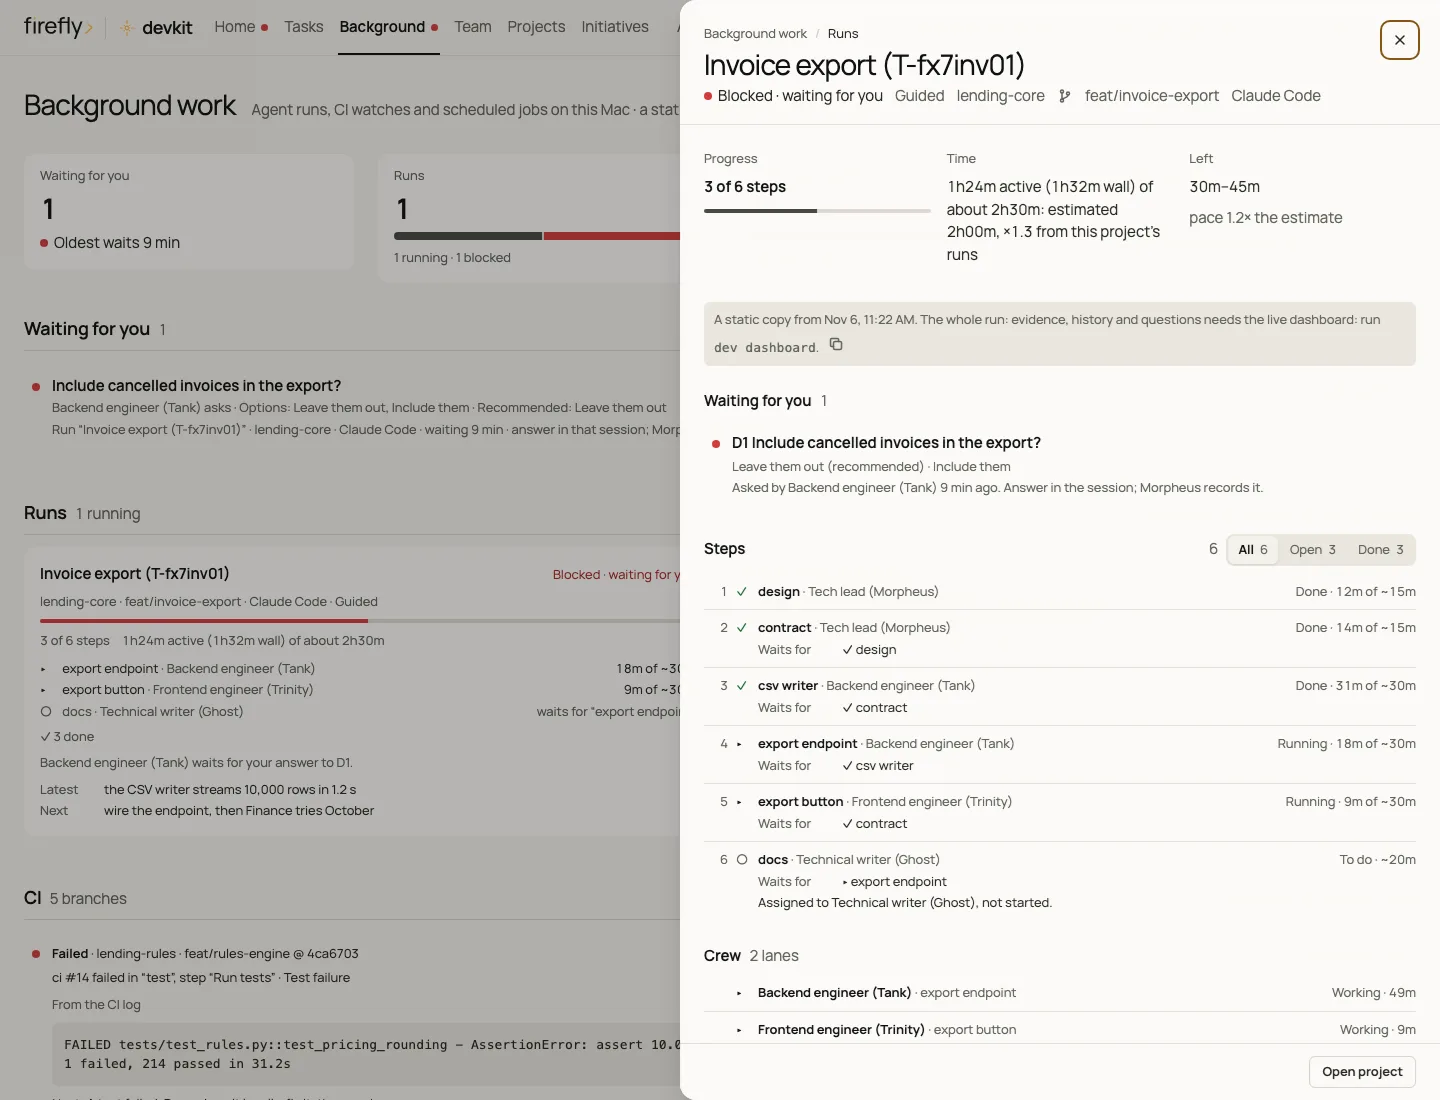
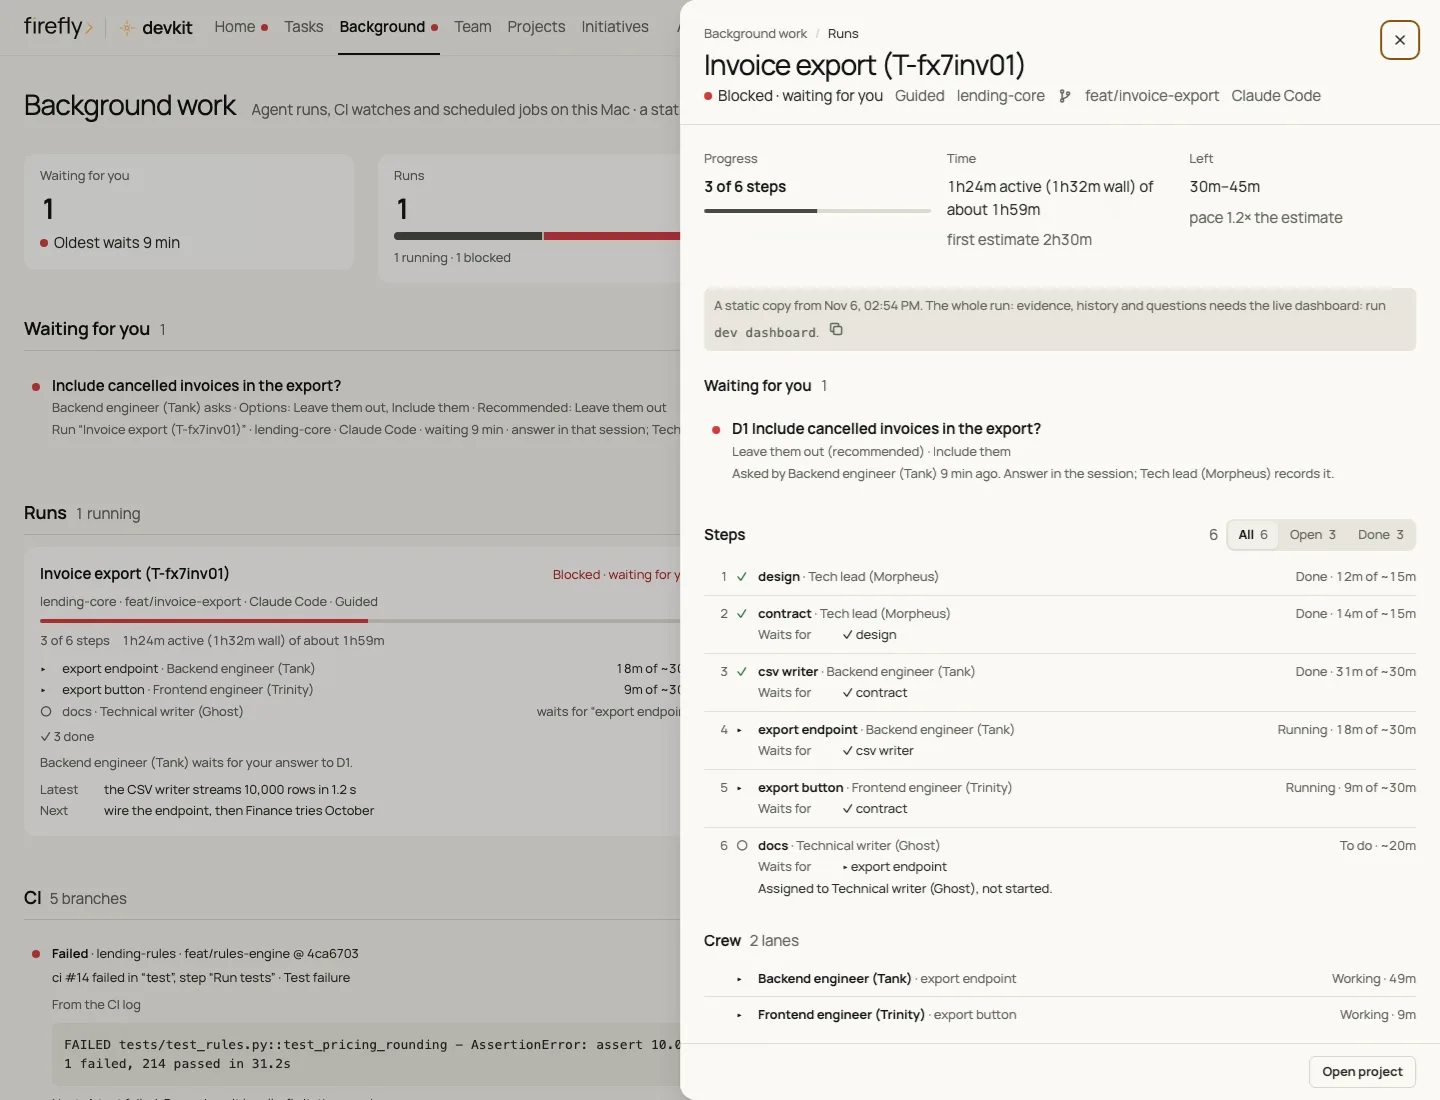
docs(dashboard): regenerate the run, Background and team screenshots
2e08d5b changed what the run shows: 'of about' is now the plan's current total (time so far plus time left), with the first estimate under it, and decisions say the Tech lead (Morpheus) records them. The committed RACI now has 34 kinds of work, so the crew table and the Who does what count changed too. Nine images come from the same fictional demo workspace, in both themes and at the same sizes as before; home, initiative, project and the task drawer only differed in clock times and stay. The run drawer's alt text and the doc's lines on run time and decisions now match the page.

Changed region(s): [[0.4688, 0.1855, 1.0, 0.9582], [0.9062, 0.8655, 1.0, 0.9582], [0.875, 0.7109, 1.0, 0.7727]]

diff --git a/docs/dashboard.md b/docs/dashboard.md
@@ -67,7 +67,7 @@ figures come first, each a link to its section (**Waiting for you**, **Runs**, *
 
 | Section | What it shows |
 | --- | --- |
-| **Waiting for you** | Only when a decision waits: each question with who asks, the options, the recommendation, and the run it blocks, oldest first. **Open the run** opens the run's drawer at that decision. Answer in the agent's session; Morpheus records it |
+| **Waiting for you** | Only when a decision waits: each question with who asks, the options, the recommendation, and the run it blocks, oldest first. **Open the run** opens the run's drawer at that decision. Answer in the agent's session; the Tech lead (Morpheus) records it |
 | **Runs** | Every `dev progress` run: waiting for you, blocked, stopped reporting, running, then done in the last hour. Each shows its goal, project, branch, agent, and mode, a progress bar, the steps running and next with their owners by role, the time used against the estimate, and the latest update and next step |
 | **CI** | The latest result per branch from `dev ci watch`, failures first. A failed result shows the job and step that failed, its class (test, lint, build, …), the first error from the log, the next action, a link to the log, and `dev run view <id> --failed` to copy |
 | **Scheduled jobs** | devkit's jobs, problems first: failed, timed out, not scheduled, overdue, skipped, OK. Each with its last run, its next run, and its failures in 30 days; the name opens the job's drawer with its recent runs and log |
@@ -77,13 +77,14 @@ figures come first, each a link to its section (**Waiting for you**, **Runs**, *
   <img src="images/dashboard/background-1440-light.webp" alt="The Background work view: four figures (1 decision waiting for you, the oldest for 9 minutes; 1 run running and 1 blocked; 1 CI failure in 14 days; 5 scheduled jobs, with doctor failed on its last run), the decision Include cancelled invoices in the export? with who asks, the options, and an Open the run button, two run cards with their steps and owners by role, and a failed CI result with the first error from its log." width="100%">
 </picture>
 
-A run's drawer (`modal=run:<id>`) holds the whole run: progress, active and wall time against the estimate, the time
-left, the decisions waiting for you, every step with its owner, state, time, and the steps it waits for, the crew
+A run's drawer (`modal=run:<id>`) holds the whole run: progress, active and wall time against the plan's current
+total (the time so far plus the time left, with the first estimate under it when the two differ), the time left, the
+decisions waiting for you, every step with its owner, state, time, and the steps it waits for, the crew
 lanes, and, in the live page, the evidence, history, and open questions of each step.
 
 <picture>
   <source media="(prefers-color-scheme: dark)" srcset="images/dashboard/run-1440-dark.webp">
-  <img src="images/dashboard/run-1440-light.webp" alt="A run's drawer over Background work: the run Invoice export, blocked and waiting for you, guided, with 3 of 6 steps done, 1 h 24 min active of about 2 h 30 min, 30 to 45 minutes left; the decision D1 waiting for an answer; six steps, each with its owner by role, its state and time, and the step it waits for; and the two crew lanes working." width="100%">
+  <img src="images/dashboard/run-1440-light.webp" alt="A run's drawer over Background work: the run Invoice export, blocked and waiting for you, guided, with 3 of 6 steps done, 1 h 24 min active of about 1 h 59 min (the time so far plus the time left), the first estimate of 2 h 30 min under it, 30 to 45 minutes left; the decision D1 waiting for an answer; six steps, each with its owner by role, its state and time, and the step it waits for; and the two crew lanes working." width="100%">
 </picture>
 
 On a phone the figures sit two by two and the runs stack:
@@ -202,8 +203,9 @@ a drawer shows what the copy holds and says what needs the live dashboard.
 Agents report progress on long runs (`dev progress start|step|block|done`). Summary views draw each running session
 as a thin bar (steps done of the total; red when blocked). The run's drawer and the project page show:
 
-- the run's goal, a thin progress bar, steps done of the total, elapsed time against the estimate (the calibrated one
-  when known), and the time left;
+- the run's goal, a thin progress bar, steps done of the total, elapsed time against the plan's current total (the
+  time so far plus the time left, so the two agree; a run without a plan uses its estimate, the calibrated one when
+  known), and the time left;
 - **Latest**, **Check**, and **Next**, each once: from the run, and from the saved status block when the run does not
   say. **Blocked** runs say so in red, with the blocking reason, and a run that waits for your decision says so;
 - _N subagents running_, and how long the current turn has been running. That is flagged when it is longer than 90%
